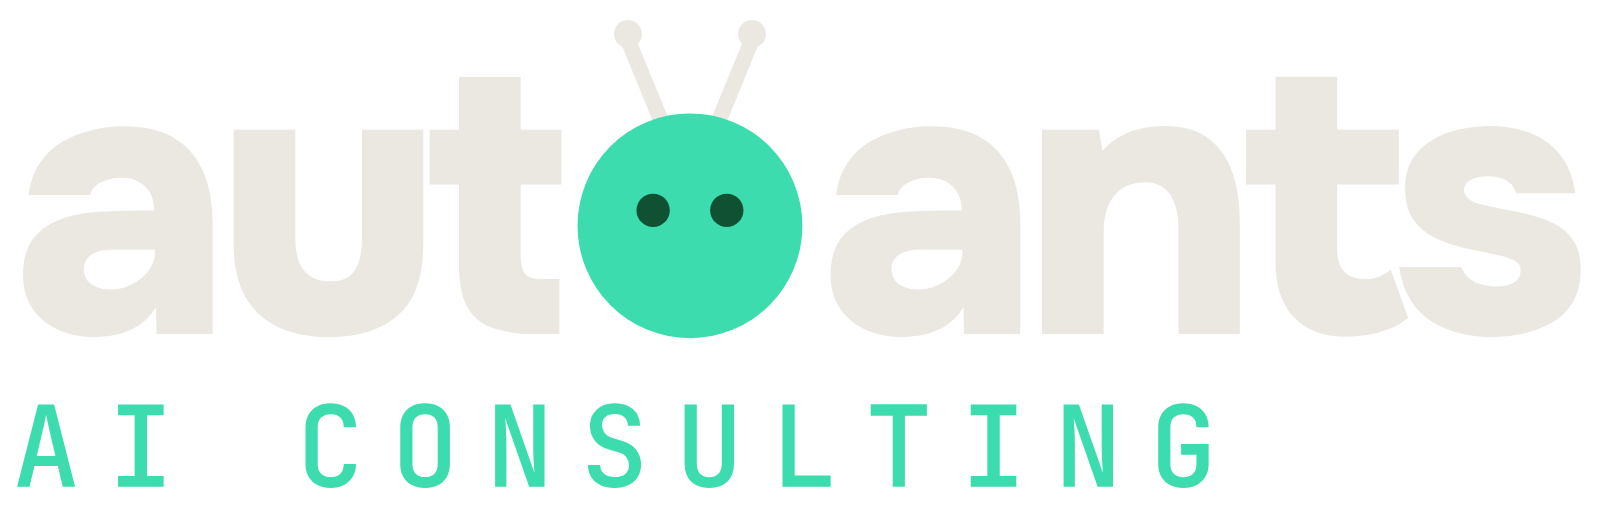
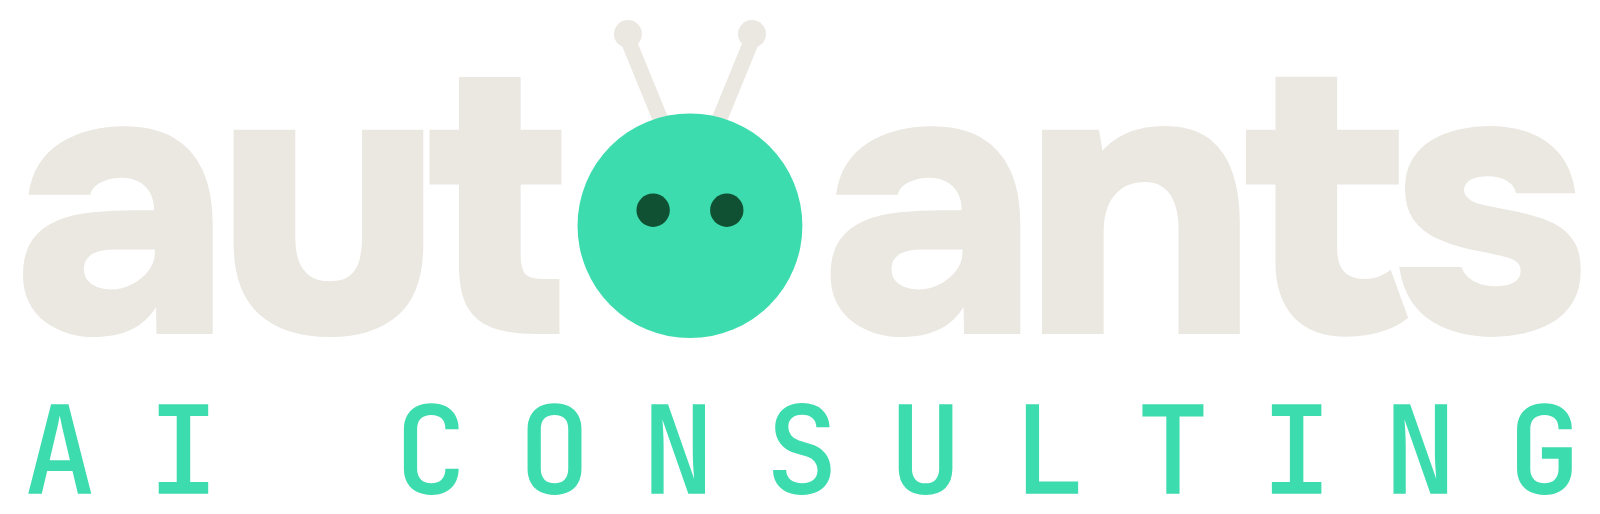
fix(brand): AI CONSULTING spans the wordmark's full width (Lane: 'appears uneven')

diff --git a/brand/lockups/build_ai_consulting.py b/brand/lockups/build_ai_consulting.py
@@ -1,6 +1,6 @@
 #!/usr/bin/env python3
 """The "autoants / AI CONSULTING" lockup (Lane's pick D, 2026-11-27): the approved wordmark, untouched, with
-"AI CONSULTING" in JetBrains Mono 500 caps, widely tracked, left-aligned under it. Text is outlined, so the files
+"AI CONSULTING" in JetBrains Mono 500 caps under it, spaced to run exactly from the wordmark's left edge to its right edge. Text is outlined, so the files
 never depend on a font being installed.
 
 Outputs (brand/lockups/):
@@ -35,6 +35,18 @@ def logo_parts(name):
     return vb, body.strip()
 
 
+def ink_bounds(name):
+    """Left and right ink edges of the wordmark, from its own paths."""
+    from fontTools.svgLib.path import parse_path
+    from fontTools.pens.boundsPen import BoundsPen
+    s = open(os.path.join(BRAND, name), encoding="utf-8").read()
+    pen = BoundsPen(None)
+    for d in re.findall(r'\bd="([^"]+)"', s):
+        parse_path(d, pen)
+    x0, y0, x1, y1 = pen.bounds
+    return x0, x1
+
+
 def outline(ttf, text, size, track_em, x0, baseline):
     font = instantiateVariableFont(TTFont(ttf), {"wght": 500})
     tmp = os.path.join(HERE, ".jbm-500.ttf")
@@ -60,33 +72,29 @@ def outline(ttf, text, size, track_em, x0, baseline):
     return pen.getCommands(), x - track_em * size, cap
 
 
-def build(ttf, logo, color, out, size, track_em, gap):
+def build(ttf, logo, color, out, size, gap):
     (vx, vy, vw, vh), body = logo_parts(logo)
-    left = 0.4                      # the wordmark's "a" starts at about x=0 in the logo file
-    base = vy + vh + gap            # gap below the wordmark box, then the caps
-    d, right, cap = outline(ttf, TEXT, size, track_em, left, 0)
-    baseline = base + cap
+    left, right_target = ink_bounds(logo)
+    n = len(TEXT)
+    _, natural_right, cap = outline(ttf, TEXT, size, 0.0, left, 0)
+    natural = natural_right - left
+    track_em = (right_target - left - natural) / ((n - 1) * size)   # spread so the caps end where the wordmark ends
+    baseline = vy + vh + gap + cap
     d, right, cap = outline(ttf, TEXT, size, track_em, left, baseline)
-    w = max(vx + vw, right + 2) - vx
+    w = vw
     h = baseline + 4 - vy
     svg = (f'<svg xmlns="http://www.w3.org/2000/svg" viewBox="{vx} {vy} {w:.1f} {h:.1f}" role="img" '
            f'aria-label="autoants, AI consulting"><title>autoants, AI consulting</title>\n{body}\n'
            f'<path fill="{color}" d="{d}"/>\n</svg>\n')
-    p = os.path.join(HERE, out + ".svg")
-    open(p, "w", encoding="utf-8").write(svg)
-    try:
-        import cairosvg
-        cairosvg.svg2png(url=p, write_to=os.path.join(HERE, out + ".png"), output_width=1600)
-    except Exception as e:  # PNG is a convenience; the SVG is the master
-        print("png skipped:", e)
-    print("wrote", out, f"{w:.0f}x{h:.0f}")
+    open(os.path.join(HERE, out + ".svg"), "w", encoding="utf-8").write(svg)
+    print("wrote", out, f"caps {left:.1f}..{right:.1f} vs wordmark {left:.1f}..{right_target:.1f}, tracking {track_em:.3f} em")
 
 
 if __name__ == "__main__":
     ttf = sys.argv[1]
     # regular: descriptor about a third of the wordmark's height, tracked .24em (matches the approved concept)
-    build(ttf, "autoants-logo.svg", FOREST, "ai-consulting", 22.1, 0.24, 12.0)
-    build(ttf, "autoants-logo-reverse.svg", MINT, "ai-consulting-reverse", 22.1, 0.24, 12.0)
+    build(ttf, "autoants-logo.svg", FOREST, "ai-consulting", 24.0, 12.0)
+    build(ttf, "autoants-logo-reverse.svg", MINT, "ai-consulting-reverse", 24.0, 12.0)
     # small cut: bigger, tighter caps so the line still reads on cards, signatures and profile images
-    build(ttf, "autoants-logo.svg", FOREST, "ai-consulting-small", 30.0, 0.14, 10.0)
-    build(ttf, "autoants-logo-reverse.svg", MINT, "ai-consulting-small-reverse", 30.0, 0.14, 10.0)
+    build(ttf, "autoants-logo.svg", FOREST, "ai-consulting-small", 32.0, 10.0)
+    build(ttf, "autoants-logo-reverse.svg", MINT, "ai-consulting-small-reverse", 32.0, 10.0)
